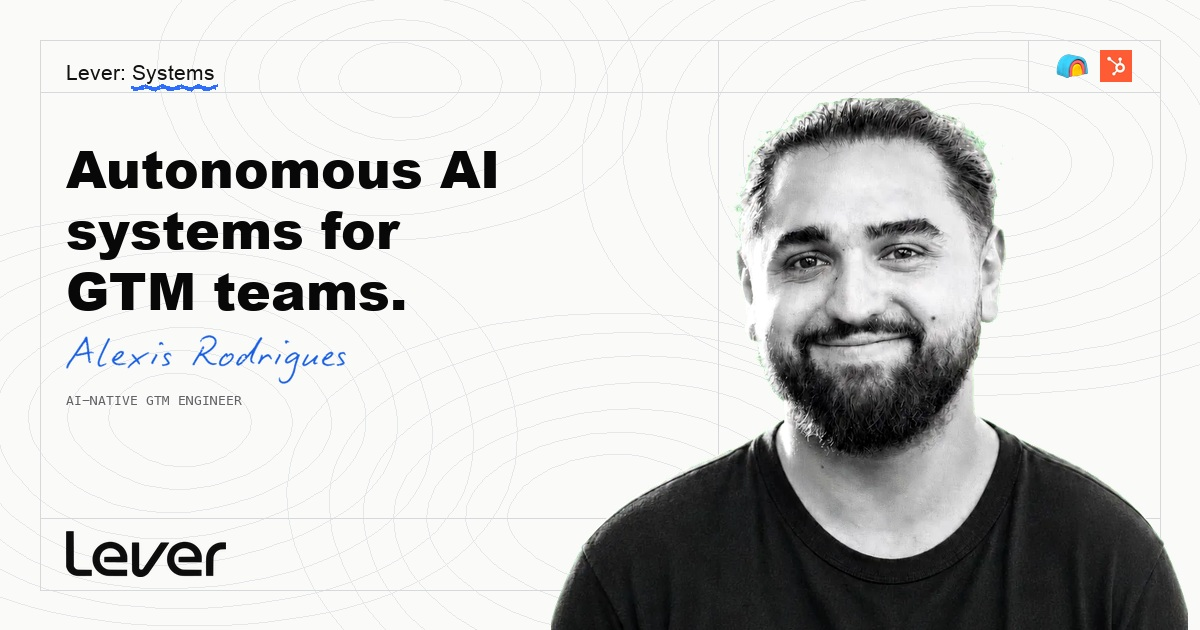
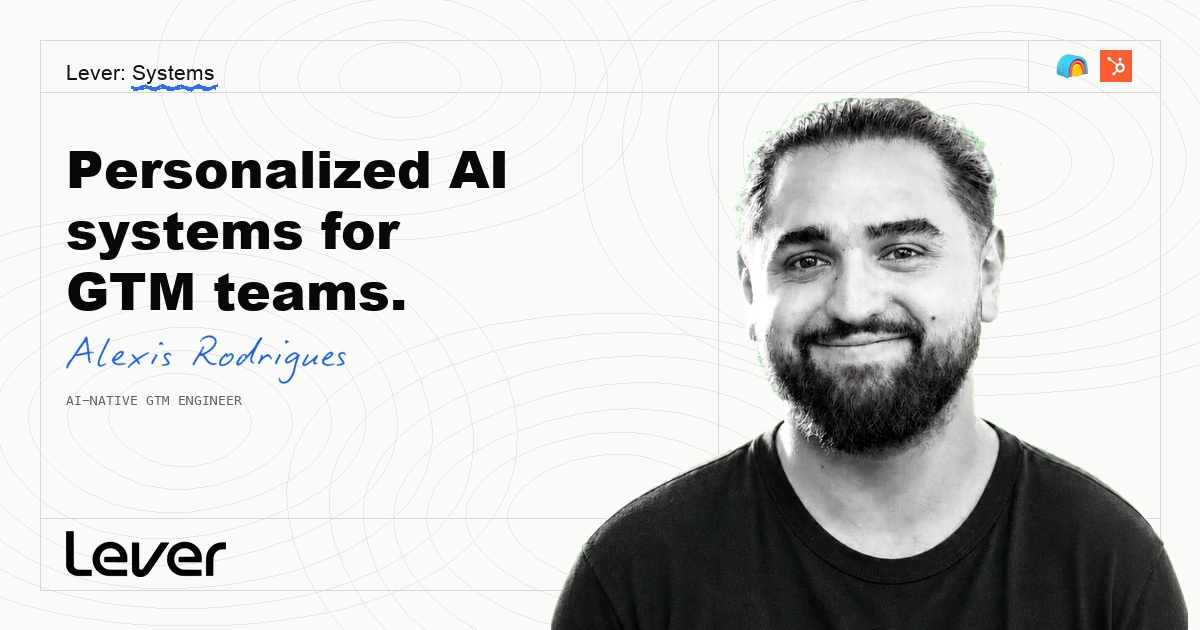
Switch value prop to Personalized AI Systems.
Update LP hero, metadata, footer, and OG share card so the positioning is consistent everywhere.

Changed region(s): [[0.0308, 0.2413, 0.4317, 0.3016]]

diff --git a/components/logos/LeverLogo.tsx b/components/logos/LeverLogo.tsx
@@ -1,0 +1,18 @@
+/** Official Lever wordmark — rounded lowercase geometry. Never substitute a straighter / caps LEVER cut. */
+export function LeverLogo({ className }: { className?: string }) {
+  return (
+    <svg
+      className={className}
+      viewBox="5 5 681 207"
+      fill="none"
+      xmlns="http://www.w3.org/2000/svg"
+      aria-hidden="true"
+    >
+      <path
+        fill="currentColor"
+        fillRule="evenodd"
+        d="M266.0 200.5 L189.0 200.5 L188.0 199.5 L179.0 199.5 L178.0 198.5 L175.0 198.5 L174.0 197.5 L171.0 197.5 L168.0 195.5 L166.0 195.5 L158.0 191.5 L156.0 189.5 L149.0 185.5 L136.5 173.0 L136.5 172.0 L131.5 166.0 L127.5 158.0 L127.5 156.0 L125.5 153.0 L125.5 150.0 L123.5 146.0 L123.5 142.0 L122.5 141.0 L122.5 119.0 L123.5 118.0 L124.5 110.0 L131.5 94.0 L133.5 92.0 L137.5 85.0 L149.0 73.5 L150.0 73.5 L153.0 70.5 L159.0 67.5 L161.0 65.5 L167.0 62.5 L175.0 60.5 L176.0 59.5 L184.0 58.5 L185.0 57.5 L192.0 57.5 L193.0 56.5 L209.0 57.5 L210.0 58.5 L213.0 58.5 L214.0 59.5 L220.0 60.5 L223.0 62.5 L225.0 62.5 L233.0 66.5 L235.0 68.5 L239.0 70.5 L243.0 74.5 L244.0 74.5 L251.5 82.0 L251.5 83.0 L257.5 90.0 L265.5 108.0 L265.5 112.0 L266.5 113.0 L266.5 120.0 L267.5 121.0 L267.5 138.0 L266.5 139.0 L266.0 142.5 L172.0 142.5 L171.5 136.0 L170.5 135.0 L170.5 124.0 L172.0 120.5 L181.0 120.5 L182.0 119.5 L237.5 119.0 L237.5 115.0 L232.5 103.0 L223.0 92.5 L213.0 86.5 L211.0 86.5 L207.0 84.5 L201.0 84.5 L200.0 83.5 L186.0 84.5 L185.0 85.5 L180.0 86.5 L170.0 92.5 L161.5 101.0 L161.5 102.0 L157.5 107.0 L156.5 111.0 L154.5 114.0 L154.5 117.0 L153.5 118.0 L153.5 121.0 L152.5 122.0 L152.5 137.0 L153.5 138.0 L153.5 141.0 L154.5 142.0 L155.5 147.0 L161.5 157.0 L171.0 166.5 L183.0 172.5 L187.0 172.5 L188.0 173.5 L244.0 173.5 L245.0 174.5 L266.0 174.5 L266.0 200.5 Z M569.0 200.5 L500.0 200.5 L499.0 199.5 L489.0 199.5 L488.0 198.5 L481.0 197.5 L478.0 195.5 L476.0 195.5 L468.0 191.5 L466.0 189.5 L459.0 185.5 L447.5 174.0 L447.5 173.0 L442.5 167.0 L438.5 159.0 L438.5 157.0 L436.5 154.0 L435.5 149.0 L434.5 148.0 L434.5 144.0 L433.5 143.0 L433.5 136.0 L432.5 135.0 L433.5 117.0 L434.5 116.0 L434.5 112.0 L435.5 111.0 L437.5 103.0 L443.5 91.0 L446.5 88.0 L449.5 83.0 L459.0 73.5 L460.0 73.5 L466.0 68.5 L475.0 64.5 L477.0 62.5 L479.0 62.5 L486.0 59.5 L489.0 59.5 L490.0 58.5 L509.0 56.5 L510.0 57.5 L519.0 57.5 L520.0 58.5 L524.0 58.5 L525.0 59.5 L528.0 59.5 L534.0 62.5 L536.0 62.5 L542.0 65.5 L544.0 67.5 L547.0 68.5 L558.5 78.0 L558.5 79.0 L564.5 85.0 L564.5 86.0 L568.5 91.0 L575.5 107.0 L575.5 110.0 L576.5 111.0 L576.5 116.0 L577.5 117.0 L577.5 140.0 L576.0 142.5 L482.0 142.5 L480.5 139.0 L480.5 124.0 L482.0 120.5 L488.0 120.5 L489.0 119.5 L547.5 119.0 L547.5 115.0 L546.5 114.0 L545.5 108.0 L541.5 101.0 L536.0 94.5 L535.0 94.5 L529.0 89.5 L523.0 86.5 L517.0 85.5 L516.0 84.5 L511.0 84.5 L510.0 83.5 L496.0 84.5 L492.0 86.5 L490.0 86.5 L479.0 93.5 L472.5 100.0 L472.5 101.0 L468.5 106.0 L466.5 110.0 L466.5 112.0 L464.5 115.0 L464.5 118.0 L463.5 119.0 L463.5 124.0 L462.5 125.0 L462.5 132.0 L463.5 133.0 L463.5 140.0 L464.5 141.0 L464.5 144.0 L471.5 157.0 L480.0 165.5 L491.0 171.5 L497.0 172.5 L498.0 173.5 L576.0 174.5 L576.5 199.0 L570.0 199.5 L569.0 200.5 Z M327.0 204.5 L315.0 204.5 L314.0 203.5 L311.0 203.5 L304.0 200.5 L299.0 196.5 L298.0 196.5 L292.5 191.0 L287.5 181.0 L287.5 174.0 L286.5 173.0 L286.5 61.0 L288.0 59.5 L315.0 59.5 L316.5 61.0 L316.5 169.0 L322.0 173.5 L329.0 173.5 L331.0 171.5 L332.0 171.5 L335.5 167.0 L335.5 166.0 L345.5 152.0 L345.5 151.0 L361.5 128.0 L401.5 67.0 L406.5 61.0 L406.5 60.0 L440.0 59.5 L441.5 61.0 L439.5 65.0 L437.5 67.0 L411.5 107.0 L408.5 110.0 L382.5 150.0 L379.5 153.0 L365.5 175.0 L362.5 178.0 L358.5 185.0 L352.0 192.5 L351.0 192.5 L344.0 198.5 L336.0 202.5 L334.0 202.5 L333.0 203.5 L328.0 203.5 L327.0 204.5 Z M113.0 200.5 L60.0 200.5 L59.0 199.5 L52.0 199.5 L51.0 198.5 L48.0 198.5 L42.0 195.5 L40.0 195.5 L36.0 192.5 L33.0 191.5 L26.0 185.5 L18.5 177.0 L15.5 171.0 L15.5 169.0 L13.5 166.0 L13.5 163.0 L12.5 162.0 L12.5 14.0 L14.0 12.5 L43.5 13.0 L43.5 105.0 L44.5 106.0 L44.5 160.0 L46.5 164.0 L50.0 168.5 L51.0 168.5 L54.0 171.5 L58.0 172.5 L59.0 173.5 L82.0 173.5 L83.0 174.5 L118.0 174.5 L118.5 199.0 L114.0 199.5 L113.0 200.5 Z M625.0 199.5 L595.5 199.0 L595.5 123.0 L596.5 122.0 L596.5 116.0 L597.5 115.0 L597.5 111.0 L599.5 107.0 L599.5 104.0 L601.5 101.0 L601.5 99.0 L603.5 95.0 L605.5 93.0 L606.5 90.0 L611.5 84.0 L611.5 83.0 L621.0 73.5 L622.0 73.5 L630.0 67.5 L638.0 63.5 L640.0 63.5 L644.0 61.5 L647.0 61.5 L648.0 60.5 L651.0 60.5 L652.0 59.5 L678.0 59.5 L678.5 87.0 L677.0 88.5 L658.0 88.5 L657.0 89.5 L654.0 89.5 L648.0 92.5 L646.0 92.5 L632.5 105.0 L627.5 115.0 L627.5 118.0 L626.5 119.0 L626.5 135.0 L625.5 136.0 L625.0 199.5 Z"
+      />
+    </svg>
+  );
+}

diff --git a/app/layout.tsx b/app/layout.tsx
@@ -26,36 +26,45 @@ const caveat = Caveat({
 export const metadata: Metadata = {
   metadataBase: new URL(SITE_URL),
   title: {
-    default: "Lever — Autonomous AI Systems for GTM Teams",
+    default: "Lever — Personalized AI Systems for GTM Teams",
     template: "%s — Lever",
   },
   description:
     "AI-native GTM engineer. I design and build signal-led outbound, inbound routing, and revenue workflows inside your stack — pipeline on autopilot.",
+  icons: {
+    icon: [
+      { url: "/favicon.ico", sizes: "48x48" },
+      { url: "/favicon.svg", type: "image/svg+xml" },
+      { url: "/favicon-32.png", sizes: "32x32", type: "image/png" },
+      { url: "/favicon-16.png", sizes: "16x16", type: "image/png" },
+    ],
+    apple: [{ url: "/apple-touch-icon.png", sizes: "180x180", type: "image/png" }],
+  },
   openGraph: {
     type: "website",
     locale: "en_US",
     url: "/",
     siteName: "Lever",
-    title: "Lever — Autonomous AI Systems for GTM Teams",
+    title: "Lever — Personalized AI Systems for GTM Teams",
     description:
       "AI-native GTM engineer. Signal-led outbound, inbound routing, and revenue workflows inside your stack.",
     images: [
       {
         // New path + query bust Slack/Discord OG caches
-        url: "/og.jpg?v=4",
+        url: "/og.jpg?v=7",
         width: 1200,
         height: 630,
         type: "image/jpeg",
-        alt: "Lever — Autonomous AI systems for GTM teams",
+        alt: "Lever — Personalized AI systems for GTM teams",
       },
     ],
   },
   twitter: {
     card: "summary_large_image",
-    title: "Lever — Autonomous AI Systems for GTM Teams",
+    title: "Lever — Personalized AI Systems for GTM Teams",
     description:
       "AI-native GTM engineer. Signal-led outbound, inbound routing, and revenue workflows inside your stack.",
-    images: ["/og.jpg?v=4"],
+    images: ["/og.jpg?v=7"],
   },
 };
 

diff --git a/components/icons.tsx b/components/icons.tsx
@@ -1,9 +1,9 @@
-import { withBasePath } from "@/lib/basePath";
+import { LeverLogo } from "@/components/logos/LeverLogo";
 
 /* Hand-drawn SVG marks — every asset on the site is original and owned. */
 
-// Asset filename is legacy; the file contains the Lever wordmark lettering.
-export const LEVER_WORDMARK_SRC = withBasePath("/frontral-wordmark.png");
+/** @deprecated Prefer <Brand /> / <LeverLogo />. Raster kept only for OG/favicon generation. */
+export const LEVER_WORDMARK_SRC = "/lever-wordmark.png";
 
 export function LumioMark({ className }: { className?: string }) {
   // abstract "ledger valley" mark: two peaks dipping into a basin
@@ -14,13 +14,10 @@ export function LumioMark({ className }: { className?: string }) {
   );
 }
 
+/** Official Lever wordmark (rounded lowercase SVG). */
 export function Brand({ className }: { className?: string }) {
   return (
-    <img
-      className={`brand__wordmark${className ? ` ${className}` : ""}`}
-      src={LEVER_WORDMARK_SRC}
-      alt="Lever"
-    />
+    <LeverLogo className={`brand__wordmark${className ? ` ${className}` : ""}`} />
   );
 }
 

diff --git a/styles/lumio.css b/styles/lumio.css
@@ -228,8 +228,8 @@
   display: block;
   height: 19px;
   width: auto;
-  filter: brightness(0) invert(1);
-  transition: filter 0.4s ease;
+  color: #fff;
+  transition: color 0.4s ease;
 }
 .topnav__brand .wordmark {
   font-size: 19px;
@@ -431,7 +431,7 @@
 }
 .topnav.is-dark .topnav__brand .brand__mark,
 .topnav.is-dark .topnav__brand .brand__wordmark {
-  filter: none;
+  color: var(--ink, #0a0a0a);
 }
 .topnav.is-dark .topnav__brand .wordmark,
 .topnav.is-dark .topnav__signin {
@@ -652,7 +652,7 @@
   display: block;
   height: 19px;
   width: auto;
-  filter: brightness(0) invert(1);
+  color: #fff;
 }
 .stage__logo .wordmark {
   font-size: 19px;
@@ -11331,6 +11331,7 @@ html.use-cases-index-page .use-cases-index .lp--clay {
 .site-footer__author-cell--brand .brand__wordmark {
   width: min(180px, 70%);
   height: auto;
+  color: var(--ink, #0a0a0a);
 }
 
 .site-footer__author-cell--portrait {

diff --git a/components/LumioHome.tsx b/components/LumioHome.tsx
@@ -55,7 +55,7 @@ export function LumioHome() {
             className="hero__title"
             step={28}
             segments={[
-              { text: "Building autonomous AI systems" },
+              { text: "Building personalized AI systems" },
               { text: "for your ", className: "row2", breakBefore: true },
               { text: "GTM team.", className: "row2 accent" },
             ] satisfies Segment[]}

diff --git a/components/Chrome.tsx b/components/Chrome.tsx
@@ -177,7 +177,7 @@ function renderDrawerItem(item: NavItem) {
 export function TopNav() {
   return (
     <nav className="topnav is-glass" data-nav>
-      <Link className="topnav__brand" href="/">
+      <Link className="topnav__brand" href="/" aria-label="Lever">
         <Brand />
       </Link>
       <div className="topnav__links">

diff --git a/lib/footerContent.ts b/lib/footerContent.ts
@@ -9,7 +9,7 @@ export const FOOTER_CONTENT = {
   },
   brand: {
     name: "Lever",
-    tagline: "Autonomous AI systems for GTM teams",
+    tagline: "Personalized AI systems for GTM teams",
   },
   social: [
     { label: "LinkedIn", href: "https://www.linkedin.com/in/alexis-rodrigues1/" },
